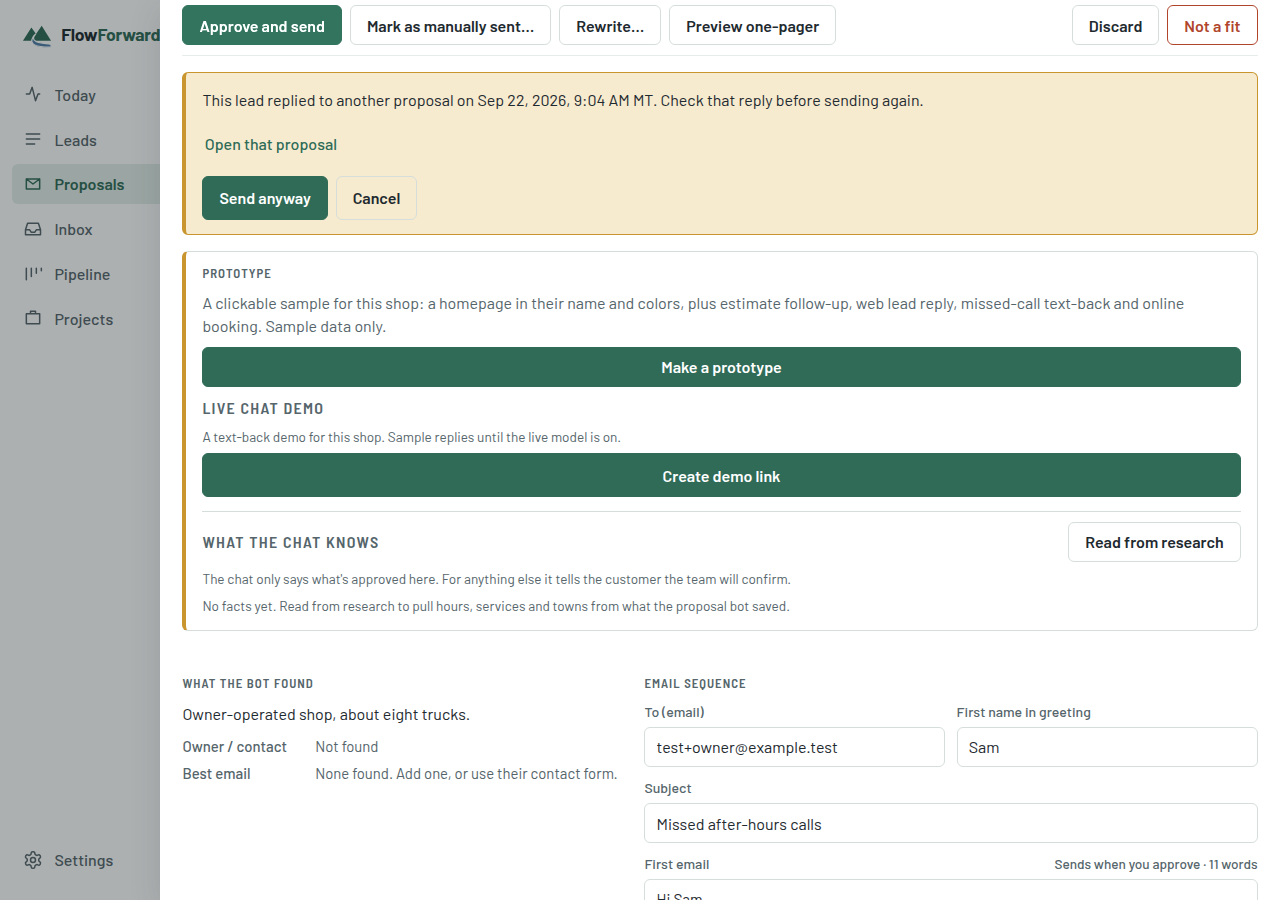
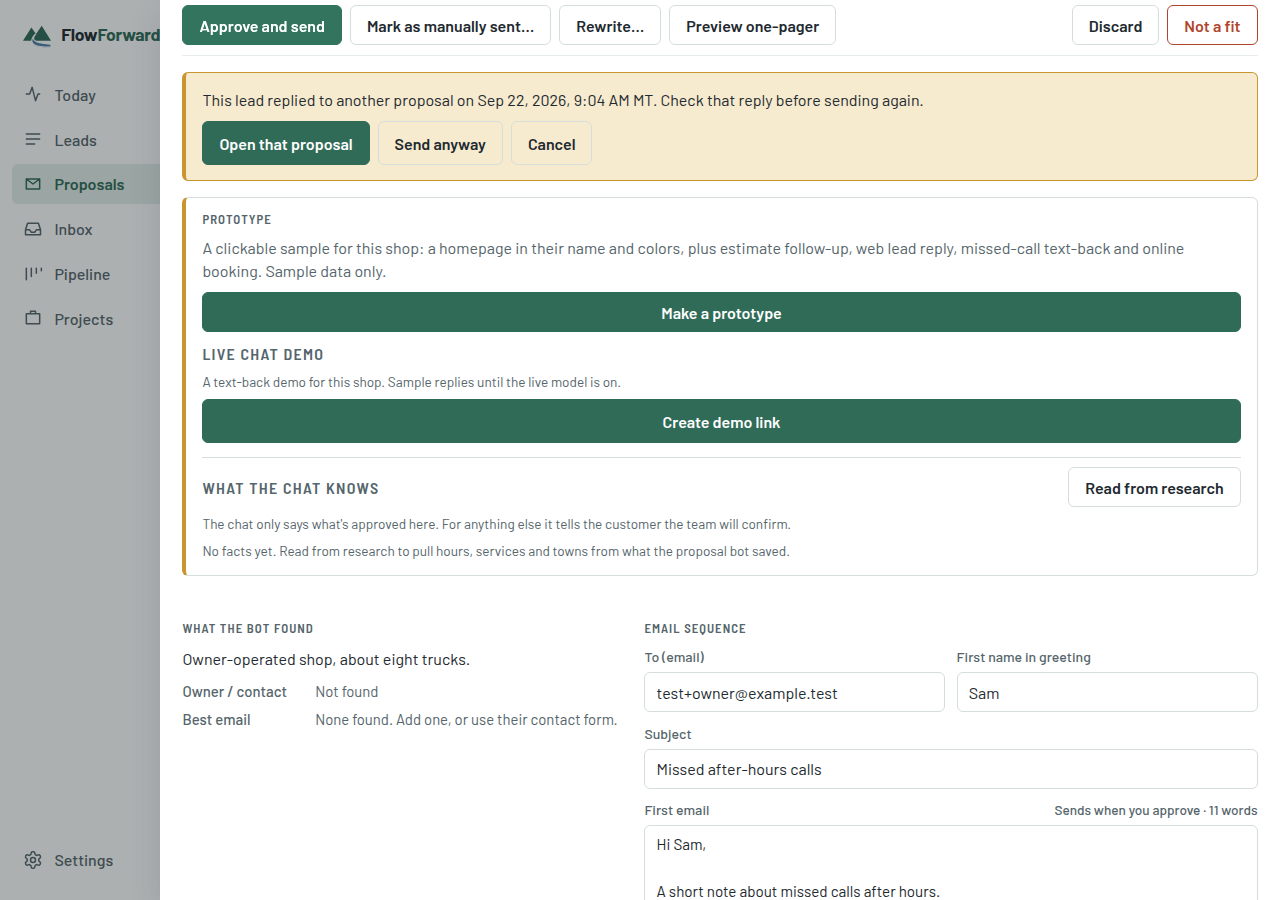
Keep the open proposal on screen after Send anyway.
A late approve reload no longer replaces the proposal the drawer moved to. Open that proposal is the solid primary action, Send anyway is the outline button, and the warning takes focus.

Changed region(s): [[0.125, 0.1244, 1.0, 1.0], [0.8125, 0.8711, 1.0, 0.9644], [0.75, 0.7156, 0.875, 0.84]]

diff --git a/web/src/views/approve-reply-warning.test.jsx b/web/src/views/approve-reply-warning.test.jsx
@@ -2,7 +2,7 @@ import { readFileSync } from 'node:fs';
 import path from 'node:path';
 import { fileURLToPath } from 'node:url';
 import { beforeEach, describe, expect, it, vi } from 'vitest';
-import { render, screen, waitFor, within } from '@testing-library/react';
+import { act, render, screen, waitFor, within } from '@testing-library/react';
 import userEvent from '@testing-library/user-event';
 import { api } from '../api';
 import { installApiDefaults } from '../test/defaults.js';
@@ -108,12 +108,32 @@ describe('approve recent-reply warning', () => {
     expect(screen.queryByRole('alertdialog', { name: 'Confirm send' })).toBeNull();
     expect(document.querySelector('.toast')).not.toHaveTextContent('recent_reply');
     expect(document.querySelector('.toast')).not.toHaveClass('show');
-    const link = within(warning).getByRole('button', { name: 'Open that proposal' });
+    const actions = [...warning.querySelector('.reply-warning-actions').querySelectorAll('button')];
+    expect(actions.map((button) => button.textContent)).toEqual(['Open that proposal', 'Send anyway', 'Cancel']);
+    expect(actions[0].className).toBe('btn');
+    expect(actions[1].className).toBe('btn btn-quiet');
+    expect(actions[2].className).toBe('btn btn-quiet');
+    expect(warning).toHaveAttribute('tabindex', '-1');
+    await waitFor(() => expect(warning).toHaveFocus());
+    const link = actions[0];
     expect(link).not.toHaveAttribute('target');
+    expect(link).not.toHaveClass('linklike');
     await userEvent.click(link);
     expect(openProposal).toHaveBeenCalledTimes(1);
     expect(openProposal).toHaveBeenCalledWith(42);
     expect(link.closest('a')).toBeNull();
+  });
+
+  it('moves focus to the warning panel when it replaces the confirm dialog', async () => {
+    api.proposal.mockResolvedValue(draft);
+    api.sendProposal.mockRejectedValue(recentReplyError());
+    renderDrawer();
+    await openConfirm();
+    await userEvent.click(screen.getByRole('button', { name: 'Send it' }));
+    const warning = await screen.findByRole('alert');
+    expect(warning).toHaveAttribute('tabindex', '-1');
+    expect(screen.queryByRole('alertdialog', { name: 'Confirm send' })).toBeNull();
+    await waitFor(() => expect(warning).toHaveFocus());
   });
 
   it('opens the sibling proposal in the same drawer', async () => {
@@ -163,6 +183,7 @@ describe('approve recent-reply warning', () => {
     expect(ack.acknowledge_recent_reply).toBe(true);
     expect(typeof ack.acknowledge_recent_reply).toBe('boolean');
     expect(screen.getByRole('button', { name: 'Sending…' })).toBeDisabled();
+    expect(screen.getByRole('button', { name: 'Open that proposal' })).toBeDisabled();
 
     api.proposal.mockResolvedValue(sent);
     release();
@@ -254,6 +275,124 @@ describe('approve recent-reply warning', () => {
     expect(await screen.findByText('Out')).toBeInTheDocument();
   });
 
+  it('keeps the sibling draft on screen when Send anyway finishes after the drawer moves', async () => {
+    const versions = [
+      { id: 9, version: 2, status: 'draft' },
+      { id: 42, version: 1, status: 'draft' },
+    ];
+    const original = { ...draft, versions };
+    const sibling = {
+      ...draft,
+      id: 42,
+      version: 1,
+      company: 'TEST: Peak Plumbing',
+      subject: 'Earlier draft',
+      body: 'Sibling draft body.',
+      status: 'draft',
+      updated_at: '2026-11-18T16:00:00.000Z',
+      versions,
+    };
+    let current = original;
+    api.proposal.mockImplementation(async (pid) => (pid === 42 ? sibling : current));
+    let release;
+    api.sendProposal.mockImplementation((id, body) => {
+      if (body && body.acknowledge_recent_reply === true) {
+        return new Promise((resolve) => { release = () => resolve({ id, status: 'sent' }); });
+      }
+      return Promise.reject(recentReplyError());
+    });
+    const { rerenderDrawer } = renderDrawer();
+    await openConfirm();
+    await userEvent.click(screen.getByRole('button', { name: 'Send it' }));
+    const warning = await screen.findByRole('alert');
+    within(warning).getByRole('button', { name: 'Send anyway' }).click();
+    await waitFor(() => expect(screen.getByRole('button', { name: 'Sending…' })).toBeDisabled());
+    expect(screen.getByRole('button', { name: 'Open that proposal' })).toBeDisabled();
+    expect(screen.getByRole('combobox', { name: 'Version' })).toBeDisabled();
+
+    rerenderDrawer({ id: 42 });
+    expect(await screen.findByRole('heading', { name: 'TEST: Peak Plumbing' })).toBeInTheDocument();
+    expect(screen.getByDisplayValue('Earlier draft')).toBeInTheDocument();
+    expect(screen.getByDisplayValue('Sibling draft body.')).toBeInTheDocument();
+
+    current = { ...original, status: 'sent', sent_at: '2026-11-20T16:00:00.000Z', updated_at: '2026-11-20T16:00:00.000Z' };
+    await act(async () => { release(); });
+    expect(api.sendProposal).toHaveBeenCalledTimes(2);
+    expect(screen.getByRole('heading', { name: 'TEST: Peak Plumbing' })).toBeInTheDocument();
+    expect(screen.getByDisplayValue('Earlier draft')).toBeInTheDocument();
+    expect(screen.getByDisplayValue('Sibling draft body.')).toBeInTheDocument();
+    expect(screen.getByRole('dialog', { name: 'Proposal for TEST: Peak Plumbing' })).toBeInTheDocument();
+    expect(screen.queryByRole('heading', { name: 'TEST: Wasatch Heating' })).toBeNull();
+    const ack = api.sendProposal.mock.calls[1];
+    expect(ack[0]).toBe(9);
+    expect(ack[1]).toEqual({ acknowledge_recent_reply: true });
+    expect(ack[1].acknowledge_recent_reply).toBe(true);
+    expect(typeof ack[1].acknowledge_recent_reply).toBe('boolean');
+    expect(api.sendProposal.mock.calls[0]).toEqual([9, undefined]);
+  });
+
+  it('Cancel after recent_reply then held-back leaves no confirm dialog', async () => {
+    api.proposal.mockResolvedValue(draft);
+    api.sendProposal
+      .mockRejectedValueOnce(recentReplyError())
+      .mockRejectedValueOnce(heldBackError())
+      .mockRejectedValueOnce(recentReplyError())
+      .mockResolvedValueOnce({ id: 9, status: 'sent' });
+    renderDrawer();
+    await openConfirm();
+    await userEvent.click(screen.getByRole('button', { name: 'Send it' }));
+    const warning = await screen.findByRole('alert');
+    await userEvent.click(within(warning).getByRole('button', { name: 'Send anyway' }));
+    expect(await within(warning).findByText('This draft is marked for another look. Send it only if you mean to.')).toBeInTheDocument();
+    expect(screen.queryByRole('alertdialog', { name: 'Confirm send' })).toBeNull();
+    expect(api.sendProposal.mock.calls[1][1]).toEqual({ acknowledge_recent_reply: true });
+
+    await userEvent.click(within(warning).getByRole('button', { name: 'Cancel' }));
+    expect(screen.queryByRole('alert')).toBeNull();
+    expect(screen.queryByRole('alertdialog', { name: 'Confirm send' })).toBeNull();
+    expect(screen.queryByRole('button', { name: 'Send it' })).toBeNull();
+    expect(api.sendProposal).toHaveBeenCalledTimes(2);
+
+    await userEvent.click(screen.getByRole('button', { name: 'Approve and send' }));
+    const dialog = screen.getByRole('alertdialog', { name: 'Confirm send' });
+    expect(dialog).toHaveTextContent('This draft is marked for another look. Send it only if you mean to.');
+    await userEvent.click(within(dialog).getByRole('button', { name: 'Send it' }));
+    expect(api.sendProposal.mock.calls[2][1]).toEqual({ confirm: true });
+    const again = await screen.findByRole('alert');
+    api.proposal.mockResolvedValue(sent);
+    await userEvent.click(within(again).getByRole('button', { name: 'Send anyway' }));
+    const ack = api.sendProposal.mock.calls[3][1];
+    expect(ack).toEqual({ confirm: true, acknowledge_recent_reply: true });
+    expect(ack.acknowledge_recent_reply).toBe(true);
+    expect(typeof ack.acknowledge_recent_reply).toBe('boolean');
+    expect(await screen.findByText('Out')).toBeInTheDocument();
+  });
+
+  it('disables Send anyway while a save is in flight', async () => {
+    let releaseSave;
+    api.proposal.mockResolvedValue(draft);
+    api.updateProposal.mockImplementation(() => new Promise((resolve) => {
+      releaseSave = () => resolve({ ...draft, subject: 'Updated subject' });
+    }));
+    api.sendProposal.mockRejectedValue(recentReplyError());
+    renderDrawer();
+    await openConfirm();
+    await userEvent.click(screen.getByRole('button', { name: 'Send it' }));
+    const warning = await screen.findByRole('alert');
+    const sendAnyway = within(warning).getByRole('button', { name: 'Send anyway' });
+    expect(sendAnyway).toBeEnabled();
+    const subject = screen.getByLabelText('Subject');
+    await userEvent.clear(subject);
+    await userEvent.type(subject, 'Updated subject');
+    await userEvent.tab();
+    await waitFor(() => expect(sendAnyway).toBeDisabled());
+    expect(api.sendProposal).toHaveBeenCalledTimes(1);
+    expect(api.updateProposal).toHaveBeenCalledWith(9, { subject: 'Updated subject' });
+    releaseSave();
+    await waitFor(() => expect(within(screen.getByRole('alert')).getByRole('button', { name: 'Send anyway' })).toBeEnabled());
+    expect(api.sendProposal).toHaveBeenCalledTimes(1);
+  });
+
   it('Cancel dismisses the warning, sends nothing more, and leaves the draft', async () => {
     api.proposal.mockResolvedValue(draft);
     api.sendProposal.mockRejectedValue(recentReplyError());
@@ -336,11 +475,15 @@ describe('approve recent-reply warning', () => {
     expect(block).toContain('min-height: 44px');
     expect(block).toContain('color: var(--ink)');
     expect(block).toContain('background: var(--ochre-wash)');
-    expect(block).toContain('color: var(--juniper)');
+    expect(block).not.toContain('.reply-warning-link');
     expect(block).not.toMatch(/#[0-9A-Fa-f]{3,8}/);
+    const buttons = css.slice(css.indexOf('.btn {'), css.indexOf('.btn-quiet'));
+    expect(buttons).toContain('background: var(--juniper)');
+    expect(buttons).toContain('color: var(--juniper-ink)');
+    expect(css).toContain('.btn-quiet { background: transparent; color: var(--ink); border-color: var(--line); }');
     const phone = css.slice(css.indexOf('@media (max-width: 860px)'));
     expect(phone).toContain('.reply-warning-actions { flex-direction: column; }');
-    expect(phone).toContain('.reply-warning-actions .btn { width: 100%; }');
+    expect(phone).toContain('.reply-warning-actions .btn { width: 100%; white-space: normal; text-align: center; }');
     expect(css).toContain('--ink-2: #55656B');
     expect(css).toContain('--paper: #F3F6F5');
   });

diff --git a/web/src/views/ProposalDrawer.jsx b/web/src/views/ProposalDrawer.jsx
@@ -26,14 +26,23 @@ function approveHeading(p) {
 export default function ProposalDrawer({ id, onClose, bump, openLead, openProposal }) {
   const [p, setP] = useState(null);
   const [error, setError] = useState(null);
+  const openId = useRef(id);
+  openId.current = id;
 
   const load = async (pid = id) => {
+    // A send reload can finish after the drawer has moved. Ignore that
+    // response so it cannot replace the proposal that is open now.
+    if (pid !== openId.current) return;
     try {
       setError(null);
       const data = await api.proposal(pid);
+      if (pid !== openId.current) return;
       setP(data);
       if (data.status === 'draft' && !data.reviewed_at) api.markProposalSeen(pid).then(() => bump()).catch(() => {});
-    } catch (e) { setError(e); }
+    } catch (e) {
+      if (pid !== openId.current) return;
+      setError(e);
+    }
   };
   useEffect(() => { setP(null); if (id) load(id); }, [id]); // eslint-disable-line react-hooks/exhaustive-deps
 
@@ -43,6 +52,16 @@ export default function ProposalDrawer({ id, onClose, bump, openLead, openPropos
       {!p && !error && <div className="drawer-body"><p className="muted">Loading…</p></div>}
       {p && p.id === id && <Body key={`${p.id}-${p.updated_at}`} p={p} reload={load} bump={bump} openLead={openLead} openProposal={openProposal} onClose={onClose} />}
     </Drawer>
+  );
+}
+
+function ReplyWarning({ children }) {
+  const ref = useRef(null);
+  useEffect(() => { ref.current?.focus(); }, []);
+  return (
+    <div className="reply-warning" role="alert" tabIndex={-1} ref={ref}>
+      {children}
+    </div>
   );
 }
 
@@ -120,7 +139,9 @@ function Body({ p, reload, bump, openLead, openProposal, onClose }) {
   const cancelReplyWarning = () => {
     if (sendLock.current) return;
     setRecentReply(null);
+    setConfirming(false);
   };
+  const sending = busy === 'send';
 
   return (
     <div className="drawer-body">
@@ -132,7 +153,7 @@ function Body({ p, reload, bump, openLead, openProposal, onClose }) {
           <div className="head-chips">
             <ProposalChip status={p.status} verdict={a.fit_verdict} stopReason={p.stop_reason} />
             {p.versions?.length > 1 ? (
-              <select className="mini-select" value={p.id} onChange={e => openProposal(Number(e.target.value))} aria-label="Version">
+              <select className="mini-select" value={p.id} disabled={sending} onChange={e => openProposal(Number(e.target.value))} aria-label="Version">
                 {p.versions.map(v => <option key={v.id} value={v.id}>v{v.version} · {v.status === 'superseded' ? 'older' : (PROPOSAL_STATUS[v.status] || v.status)}{v.instructions ? ' · w/ notes' : ''}</option>)}
               </select>
             ) : <span className="muted small">v{p.version}</span>}
@@ -206,21 +227,21 @@ function Body({ p, reload, bump, openLead, openProposal, onClose }) {
         </div>
       )}
       {recentReply && (
-        <div className="reply-warning" role="alert">
+        <ReplyWarning>
           <p>{recentReply.sentence}</p>
-          <button type="button" className="linklike reply-warning-link" onClick={() => openProposal(recentReply.sibling_proposal_id)}>
-            Open that proposal
-          </button>
           {confirmAck && <p>This draft is marked for another look. Send it only if you mean to.</p>}
           <div className="reply-warning-actions">
-            <button type="button" className="btn" disabled={busy === 'send' || noRecipient} onClick={() => submitApprove(true)}>
-              {busy === 'send' ? 'Sending…' : 'Send anyway'}
+            <button type="button" className="btn" disabled={sending} onClick={() => openProposal(recentReply.sibling_proposal_id)}>
+              Open that proposal
             </button>
-            <button type="button" className="btn btn-quiet" disabled={busy === 'send'} onClick={cancelReplyWarning}>
+            <button type="button" className="btn btn-quiet" disabled={!!busy || noRecipient} onClick={() => submitApprove(true)}>
+              {sending ? 'Sending…' : 'Send anyway'}
+            </button>
+            <button type="button" className="btn btn-quiet" disabled={sending} onClick={cancelReplyWarning}>
               Cancel
             </button>
           </div>
-        </div>
+        </ReplyWarning>
       )}
       {confirmingManual && (
         <div className="confirm" role="alertdialog" aria-label="Confirm manual send">

diff --git a/web/e2e/f009-reply-warning.spec.js b/web/e2e/f009-reply-warning.spec.js
@@ -274,16 +274,28 @@ test.describe('F-009 recent-reply warning screenshots', () => {
       await expect(warning).toContainText(WARNING);
       await expect(page.getByRole('alertdialog', { name: 'Confirm send' })).toHaveCount(0);
       await expect(page.locator('.toast.show')).toHaveCount(0);
+      const open = warning.getByRole('button', { name: 'Open that proposal' });
       const sendAnyway = warning.getByRole('button', { name: 'Send anyway' });
       const cancel = warning.getByRole('button', { name: 'Cancel' });
-      const link = warning.getByRole('button', { name: 'Open that proposal' });
-      await expect(link).toBeVisible();
-      const boxes = await Promise.all([sendAnyway.boundingBox(), cancel.boundingBox(), link.boundingBox(), warning.boundingBox()]);
-      for (const box of boxes.slice(0, 3)) expect(box.height).toBeGreaterThanOrEqual(44);
+      await expect(open).toBeVisible();
+      await expect(open).toHaveClass('btn');
+      await expect(open).not.toHaveAttribute('target');
+      await expect(sendAnyway).toHaveClass('btn btn-quiet');
+      await expect(cancel).toHaveClass('btn btn-quiet');
+      await expect(warning).toBeFocused();
+      const boxes = await Promise.all([open.boundingBox(), sendAnyway.boundingBox(), cancel.boundingBox()]);
+      for (const box of boxes) expect(box.height).toBeGreaterThanOrEqual(44);
       if (width === 375) {
         expect(boxes[0].y + boxes[0].height).toBeLessThanOrEqual(boxes[1].y + 1);
+        expect(boxes[1].y + boxes[1].height).toBeLessThanOrEqual(boxes[2].y + 1);
         expect(Math.abs(boxes[0].width - boxes[1].width)).toBeLessThan(2);
+        expect(Math.abs(boxes[1].width - boxes[2].width)).toBeLessThan(2);
         expect(boxes[0].width).toBeGreaterThan(width * 0.7);
+      } else {
+        expect(boxes[0].x + boxes[0].width).toBeLessThanOrEqual(boxes[1].x + 1);
+        expect(boxes[1].x + boxes[1].width).toBeLessThanOrEqual(boxes[2].x + 1);
+        expect(Math.abs(boxes[0].y - boxes[1].y)).toBeLessThan(4);
+        expect(Math.abs(boxes[1].y - boxes[2].y)).toBeLessThan(4);
       }
       await scrollIntoDrawer(page, '.reply-warning');
       await shoot(page, `warning-${width}`);

diff --git a/web/src/styles.css b/web/src/styles.css
@@ -395,15 +395,6 @@ label > .input { color: var(--ink); font-weight: 400; font-size: 1rem; }
   max-width: 100%;
 }
 .reply-warning p { margin: 0; overflow-wrap: anywhere; }
-.reply-warning-link {
-  align-self: flex-start;
-  display: inline-flex;
-  align-items: center;
-  min-height: 44px;
-  min-width: 44px;
-  padding: 0 .15rem;
-  color: var(--juniper);
-}
 .reply-warning-actions { display: flex; flex-wrap: wrap; gap: .5rem; min-width: 0; }
 .reply-warning-actions .btn { min-height: 44px; min-width: 44px; }
 .check { flex-direction: row; align-items: center; gap: .5rem; color: var(--ink); }
@@ -1569,7 +1560,7 @@ html body .prototype-root > p.prototype-ribbon[data-prototype-ribbon][role="note
   .boost input { min-width: 0; width: 100%; flex-basis: 100%; }
   .link-row .btn, .action-bar .btn { max-width: 100%; white-space: normal; text-align: center; }
   .reply-warning-actions { flex-direction: column; }
-  .reply-warning-actions .btn { width: 100%; }
+  .reply-warning-actions .btn { width: 100%; white-space: normal; text-align: center; }
   .action-bar { min-width: 0; }
   .prop-mini { min-width: 0; }
   .prop-mini .grow { min-width: 0; overflow-wrap: anywhere; }

diff --git a/web/src/flags-contract.js b/web/src/flags-contract.js
@@ -32,7 +32,7 @@ export const FEATURE_FLAG_CATALOG = Object.freeze([
   Object.freeze({ name: 'FF_CAMPAIGNS', label: 'Campaigns' }),
   Object.freeze({ name: 'FF_CAMPAIGN_OPEN_PIXEL', label: 'Campaign open pixel' }),
   Object.freeze({ name: 'FF_PROTOTYPE_ON_DRAFT', label: 'Branded prototype on new proposal drafts' }),
-  Object.freeze({ name: 'FF_APPROVE_REPLY_WARNING', label: 'Warn before approving if the lead replied to another proposal in the last 60 days.' }),
+  Object.freeze({ name: 'FF_APPROVE_REPLY_WARNING', label: 'Warn before approving if the lead replied to another proposal in the last 60 days' }),
 ]);
 
 export const FEATURE_FLAG_NAMES = Object.freeze(FEATURE_FLAG_CATALOG.map((flag) => flag.name));

diff --git a/web/src/flags-contract.test.js b/web/src/flags-contract.test.js
@@ -149,6 +149,7 @@ describe('feature flags contract', () => {
     expect(FEATURE_FLAG_NAMES).toContain('FF_PROTOTYPE_ON_DRAFT');
     expect(FEATURE_FLAG_NAMES.at(-1)).toBe('FF_APPROVE_REPLY_WARNING');
     const catalog = closedPanelFlags().find((flag) => flag.name === 'FF_APPROVE_REPLY_WARNING');
-    expect(catalog.label).toBe('Warn before approving if the lead replied to another proposal in the last 60 days.');
+    expect(catalog.label).toBe('Warn before approving if the lead replied to another proposal in the last 60 days');
+    expect(catalog.label.endsWith('.')).toBe(false);
   });
 });
